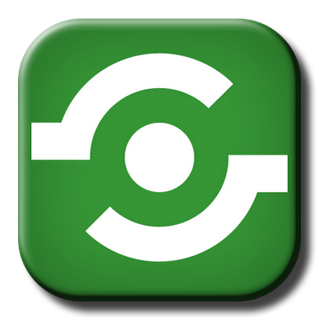
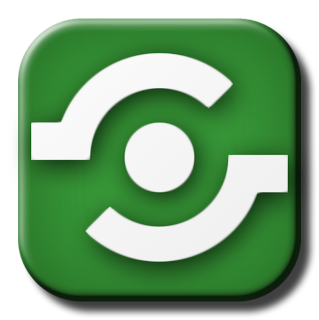
GUI Improvements
- Improved shading on ShareIcon
- Added new custom progressbar - TextProgressBar. It draws a sexy message
  on top of the busy signal to show what's happening ;)
- Implemented TextProgressBar for hashing and searching

diff --git a/arpmanetdc.cpp b/arpmanetdc.cpp
@@ -172,7 +172,7 @@ ArpmanetDC::ArpmanetDC(QWidget *parent, Qt::WFlags flags)
     transferWidget = 0;
 
     //Set window icon
-    setWindowIcon(QIcon(QPixmap(":/ArpmanetDC/Resources/Logo.png").scaled(128, 128, Qt::IgnoreAspectRatio, Qt::SmoothTransformation)));
+    setWindowIcon(QIcon(QPixmap(":/ArpmanetDC/Resources/Logo128x128.png")));
 
 	//Icon generation
 	userIcon = new QPixmap();
@@ -404,10 +404,12 @@ void ArpmanetDC::createWidgets()
 	//connectionIconLabel->setSizePolicy(QSizePolicy::Fixed, QSizePolicy::Fixed);
 
 	//Progress bar
-	hashingProgressBar = new QProgressBar(this);
+	hashingProgressBar = new TextProgressBar(tr("Hashing"), this);
 	hashingProgressBar->setRange(0,0);
 	hashingProgressBar->setStyle(new QPlastiqueStyle());
 	hashingProgressBar->setSizePolicy(QSizePolicy::Fixed, QSizePolicy::Ignored);
+    hashingProgressBar->setFormat(tr("H"));
+    hashingProgressBar->setTextVisible(true);
 
 	//Splitters
 	splitterVertical = new QSplitter(this);
@@ -567,6 +569,7 @@ void ArpmanetDC::placeWidgets()
 	tabs->addTab(tabWidget, QIcon(":/ArpmanetDC/Resources/ServerOfflineIcon.png"), tr("Arpmanet Chat"));
 	tabs->setTabPosition(QTabWidget::North);
 	tabTextColorNormal = tabs->tabBar()->tabTextColor(tabs->indexOf(tabWidget));
+    tabs->tabBar()->tabButton(0,QTabBar::RightSide)->hide();
 
 	//Place horizontal widgets
 	splitterHorizontal->addWidget(tabs);

diff --git a/customtableitems.h b/customtableitems.h
@@ -8,6 +8,7 @@
 #include <QPen>
 #include <QString>
 #include <QSet>
+#include <QProgressBar>
 
 //Custom delegate to display HTML code in QTableView
 class HTMLDelegate : public QStyledItemDelegate
@@ -41,6 +42,22 @@ class CTabWidget : public QTabWidget
 public:
 	CTabWidget(QWidget *parent = 0);
 	QTabBar *tabBar() const { return (QTabWidget::tabBar()); }
+};
+
+//Custom progressbar that shows text on top
+class TextProgressBar : public QProgressBar
+{
+public:
+    //No implementation
+    TextProgressBar(QString text, QWidget *parent = 0) : QProgressBar(parent) {pText = text;}
+
+    QString topText() const;
+    void setTopText(const QString &text);
+protected:
+    void paintEvent(QPaintEvent *);
+
+private:
+    QString pText;
 };
 
 #endif

diff --git a/customtableitems.cpp b/customtableitems.cpp
@@ -106,3 +106,27 @@ CTabWidget::CTabWidget(QWidget *parent) : QTabWidget(parent)
 {
 
 }
+
+QString TextProgressBar::topText() const
+{
+    return pText;
+}
+
+void TextProgressBar::setTopText(const QString &text)
+{
+    pText = text;
+}
+
+void TextProgressBar::paintEvent(QPaintEvent *paintEvent)
+{
+    QProgressBar::paintEvent(paintEvent);
+
+    if (minimum() == 0 && maximum() == 0)
+    {
+        QRect rect = paintEvent->rect();
+        
+        QPainter painter(this);
+        painter.setPen(Qt::gray);
+        painter.drawText(rect, Qt::AlignCenter, pText);
+    }
+}

diff --git a/searchwidget.cpp b/searchwidget.cpp
@@ -67,7 +67,7 @@ void SearchWidget::createWidgets()
 	searchButton = new QPushButton(QIcon(tr(":/ArpmanetDC/Resources/SearchIcon.png")),tr("Search"));
 	searchButton->setIconSize(QSize(16,16));
 
-	searchProgress = new QProgressBar();
+	searchProgress = new TextProgressBar(tr("Searching"));
 	searchProgress->setStyle(new QPlastiqueStyle());
 	searchProgress->setValue(0);
 	searchProgress->setRange(0,0);
